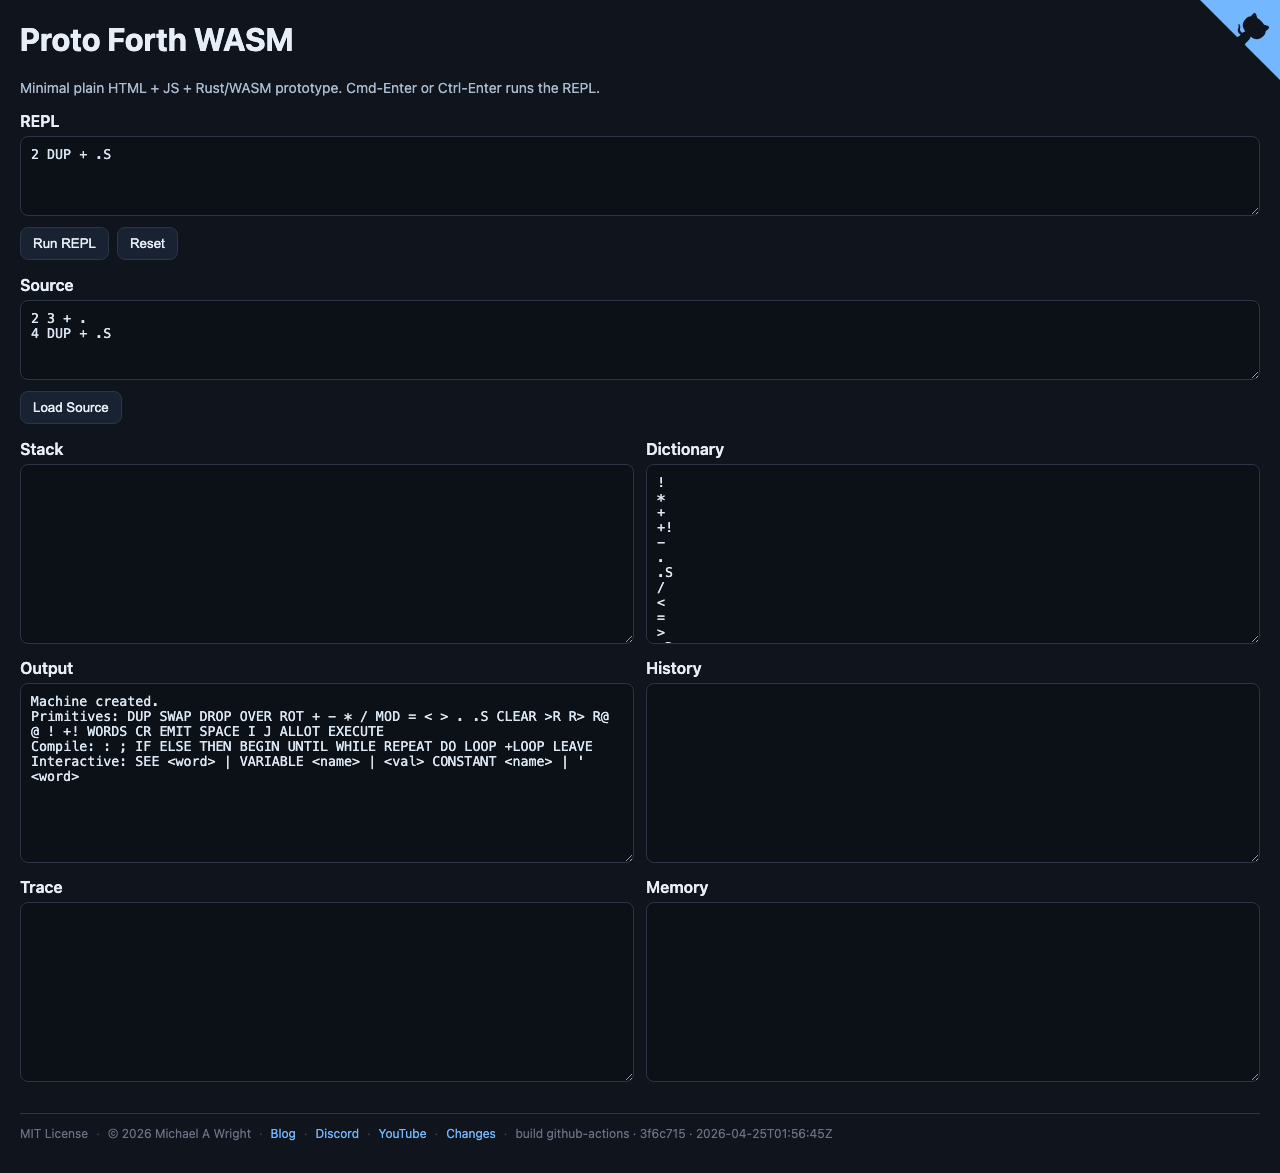
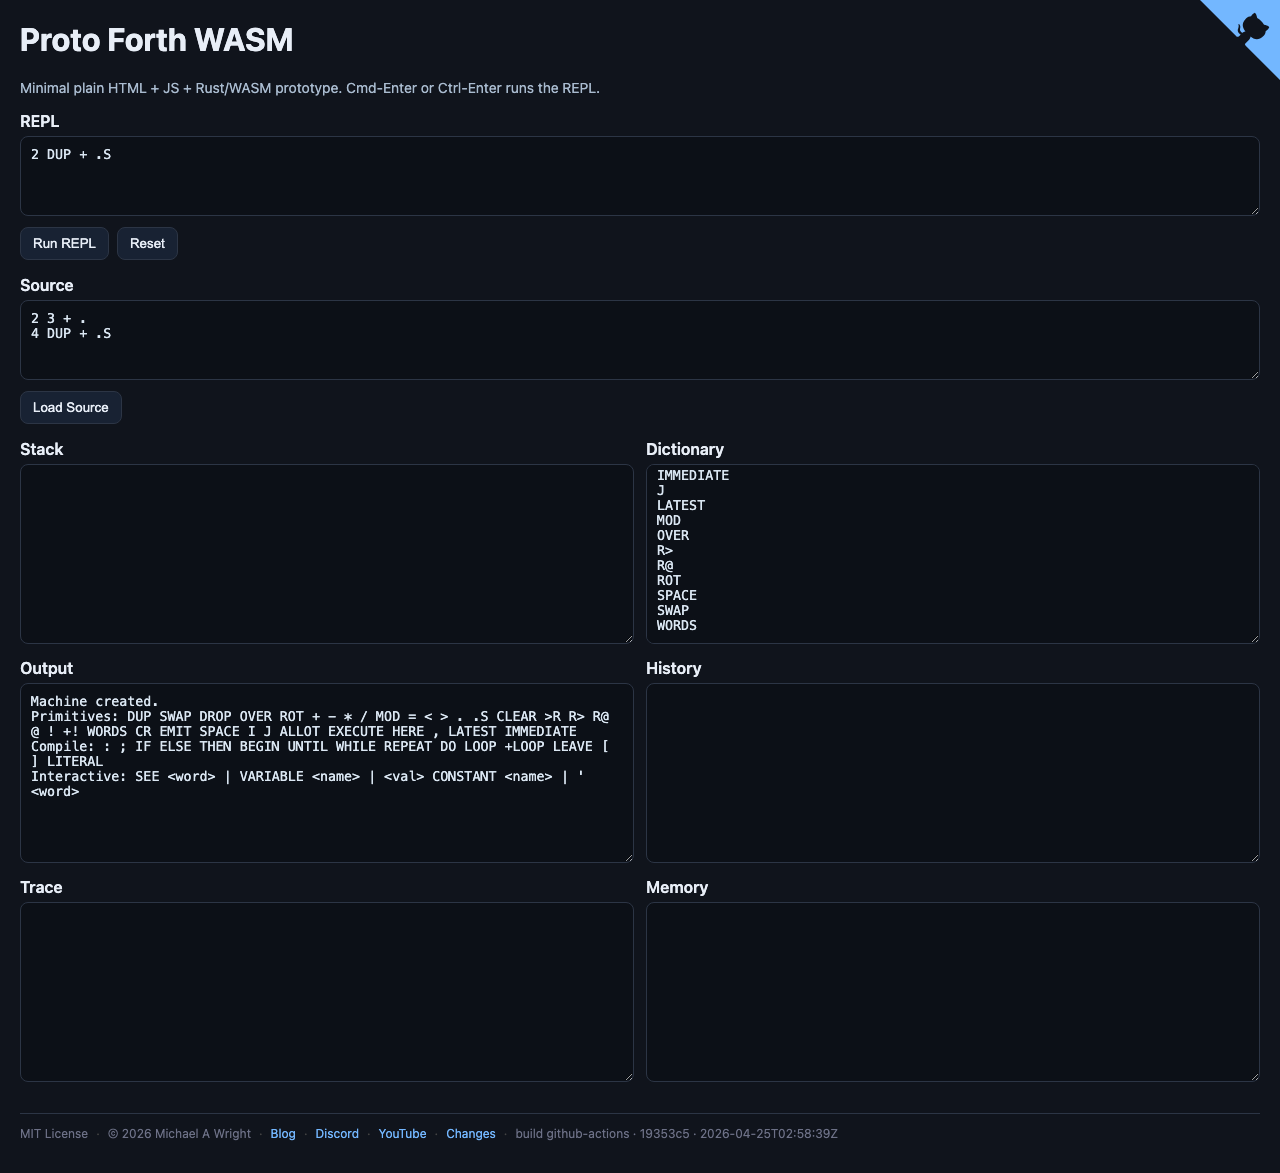
Refresh README screenshot for self-hosting bundle
Resnap after HERE/,/LATEST (d2ac1ab), IMMEDIATE/[ ]/LITERAL (ad6a75d),
and the SEE IMMEDIATE annotation (19353c5) landed. The banner now
reflects the full vocabulary including HERE , LATEST IMMEDIATE and
the [ ] LITERAL compile-mode helpers. Bumps cache-buster to
1777086175348.

Changed region(s): [[0.0312, 0.6138, 0.4375, 0.6752], [0.5, 0.399, 0.5625, 0.5524], [0.5, 0.9514, 0.6562, 0.9821]]

diff --git a/CHANGES.md b/CHANGES.md
@@ -38,6 +38,8 @@
 
 ### Documentation
 
+- README screenshot refreshed after HERE/,/LATEST, IMMEDIATE/[ ]/LITERAL,
+  and SEE-immediate annotation landed; bumped cache-buster again
 - README screenshot refreshed against the deployed site after the tick +
   EXECUTE and localStorage commits landed; bumped the `?ts=` cache-buster
 

diff --git a/README.md b/README.md
@@ -4,7 +4,7 @@ Minimal plain HTML + JS + Rust/WASM prototype for a proto-Forth workbench.
 
 **Live demo:** <https://sw-vibe-coding.github.io/sw-fth-wasm/>
 
-![screenshot](images/screenshot.png?ts=1777082301229)
+![screenshot](images/screenshot.png?ts=1777086175348)
 
 ## What it does
 
